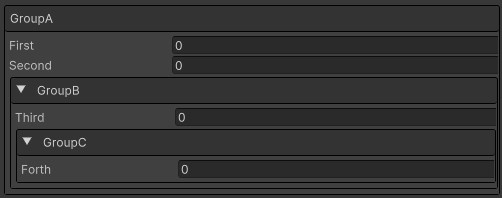
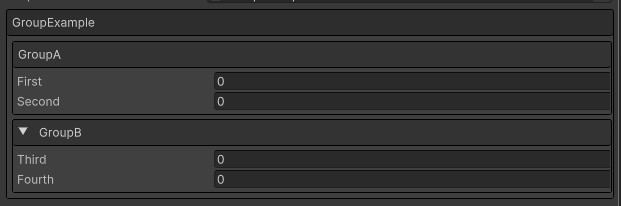
updated readme and some images

Changed region(s): [[0.0, 0.0, 1.0, 1.0]]

diff --git a/README.md b/README.md
@@ -21,10 +21,12 @@ The Artifice Toolkit offers two powerful tools:
 
 1. [Artifice Inspector](#artifice-inspector-and-custom-attributes): Alter the appearance of your editor's inspector with simple C# custom attributes. This is editor scripting without the editor scripting knowledge being required!
 
-2. [Artifice Validator](#artifice-validator): Attach validator attributes to your serialized properties to always make sure certain rules are being followed. Don's waste time on absent minded mistakes ever again.
+2. [Artifice Validator](#artifice-validator): Attach validator attributes to your serialized properties to always make sure certain rules are being followed. Do not waste time on absent minded mistakes ever again.
+
+3. [Artifice Drawer](#artifice-drawer): The ArtificeDrawer is what renders everything in the ArtificeToolkit. Invoke the drawer in your Editor Scripts with a SerializedObject or SerializedProperty and you will receive the rendered result of it. This essentially makes the ArtificeDrawer a first-class citizen inspector.
 
 ## How to install into your Unity project?
-Simply add it as a Unity Package through git repository link. Curretly this can only be done through a special link since the project is private. After open-sourcing it, it will be done through the git clone link.
+You can add the ArtificeToolkit as any other Unity Package. Since this is an alpha testing phase, it can only be added as a local package through Windows -> Package Manager. Then press the "plus" icon and choose "Add Package from disk...". The select the package.json file and the ArtificeToolkit will be linked to your project.
 
 <p align="center">
   <img src="./Documentation/artifice_addpackage.png" />
@@ -34,7 +36,7 @@ Simply add it as a Unity Package through git repository link. Curretly this can 
 # Artifice Inspector and Custom Attributes
 By using custom attributes in your MonoBehviour scripts you can quickly alter the inspector's appearance. In this section, you will find all the attributes which are tested and ready for use.
 
-By default, the Artifice Drawer is disabled. You can always turn it on/off through the dedicated MenuItem of the 
+By default, the Artifice Drawer is disabled. You can always turn it on/off through the dedicated MenuItem "ArtificeToolkit"
 
 <p align="center">
   <img src="./Documentation/artifice_toggle.png" />
@@ -108,7 +110,7 @@ private int third;
 
 
 ### Foldout Group
-The FoldoutGroup extends the BoxGroup by allowing the user to collapse the container if he wants to. This information is also persistent per serialized object.
+The FoldoutGroup extends the BoxGroup by allowing the user to optionally collapse the container.
 
 ```c#
 [SerializeField, BoxGroup("GroupA")]
@@ -126,25 +128,28 @@ private int fourth;
 ![foldout-group-example](./Documentation/artifice_foldoutgroup.jpg)
 
 ### Tab Group
-The TabGroup allows you to create tabs inside of the Unity inspector. The syntax is more comlex than Box and Foldout groups but it is well worth it.
+The TabGroup allows you to create tabs inside of the Unity inspector. The syntax is more comlex than Box and Foldout groups but it is well worth it. The first string dictates the name of the group and the second one dictates the name of the tab. All the properties that belong in the same group and same tab, will be contained together.
 
 ```c#
-[SerializeField, TabGroup("Example", "SectionA")]
+[SerializeField, TabGroup("Example", "Integers")]
 private int first;
 
-[SerializeField, TabGroup("Example", "SectionA")]
+[SerializeField, TabGroup("Example", "Integers")]
 private int second;
 
-[SerializeField, TabGroup("Example", "SectionB")]
-private int third;
+[SerializeField, TabGroup("Example", "Strings")]
+private string third;
 
-[SerializeField, TabGroup("Example", "SectionB")]
-private int fourth;
+[SerializeField, TabGroup("Example", "Strings")]
+private string fourth;
+
+[SerializeField, TabGroup("Example", "Strings")]
+private string fifth;
 ```
-![tab-group-example](./Documentation/artifice_tabgroup.jpg)
+![tab-group-example](./Documentation/artifice_tabgroup.gif)
 
 ### Horizontal Group
-The HorizontalGroup attribute allows you to align multiple properties into a single line, instead of splitting them as it is done by default. Note, that the Horizontal and Vertical groups do not show their titles and are solely used for structuring.
+The HorizontalGroup attribute allows you to align multiple properties into a single line, instead of having every property be rendered in a new line. Note, that the Horizontal and Vertical groups do not show their titles and are solely used for structuring.
 
 ```c#
 [SerializeField, HorizontalGroup("horizontal1")]
@@ -272,6 +277,12 @@ private float onDeathSoundFxVolume;
 
 ![enableif-example](./Documentation/artifice_enableif.gif)
 
+---
+
+**NOTE**: The custom attributes of the Artifice, are processed from last to first. This allows us to perform various tricks since both the EnableIf and the FoldoutGroup, wrap the property in another VisualElement container. By having the EnableIf before the FoldoutGroup, on the LAST instance of the FoldoutGroup, the EnableIf captures the entire FoldoutGroup, although we have only declared it at a single serialized property.
+
+---
+
 ### PreviewSprite
 PreviewSprite works only on the Sprite and Texture2D serialized properties. It renders an enlarged image of the selected value.
 
@@ -345,3 +356,26 @@ The best way to solve bugs, is to avoid creating them. Assertions are one of the
 ![artifice-validator](./Documentation/artifice_validator.png)
 
 The Validator works with attributes which inherit from the ValidatorAttribute class. Such attributes have an additional implementation explaining what they are supposed to be asserting. The most common use case the [Required](#required) attribute, to make sure the property has been assigned with a reference.
+
+
+<!-- ARTIFICE DRAWER -->
+# Artifice Drawer
+The ArtificeDrawer is what renders everything when the Artifice Inspector is enabled. The ArtificeDrawer can receive a SerializedObject or SerializedProperty and returns a VisualElement of the rendered result. It essentially parsed the SerializedObject or SerializedProperty and renders either the default result or the enchanced result of CustomAttributes have been used.
+
+This section will only interest you if you want to learn the underlying secrets of how the ArtificeToolkit works at its core and learn how to extend it with your own CustomAttributes and tools. Knowledge regarding CustomEditors, CustomPropertyDrawers etc will be needed.
+
+## ArtificeDrawer GUI Steps
+When a property directly uses a CustomAttribute, the drawer will access the respective [CustomAttributeDrawer](#custom-attribute-drawer) and call its GUI steps in order
+
+  1. Pre GUI: Appends a VisualElement before the proprety.
+  2. On GUI: Replaces the property with the result of this method. Only applies with IsReplacingProperty is set on true.
+  3. Post GUI: Appends a VisualElement after the property.
+  4. Wrap GUI: Returns a new VisualElement which adds the VisualElements from the previous steps inside of it.
+  5. On Bound Property GUI: Executes code when the OnGUI VisualElement is attached in the inspector.
+
+## Creating new CustomAttributes
+To create a new CustomAttribute, you need to create the following:
+  1. YourCustomAttribute inheriting from CustomAttribute. This should be placed in a runtime folder.
+  2. Artifice_CustomAttributeDrawer_YourAttribute inheriting from the Artifice_CustomAttributeDrawer placed inside an Editor folder. In a similar fashion as CustomPropertyDrawers, you need to mark this class with a [CustomAttributeDrawer(typeof(YourAttribute))] to link them together.
+
+This section will be more documented in the future. For now, you can see examples of custom attributes like TitleAttribute and it's CustomAttributeDrawer_Title.
